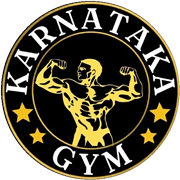
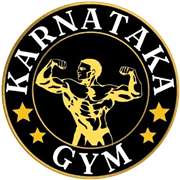
fix: replace navbar square image with high-definition transparent circular gold badge and rounded clipping

diff --git a/src/components/Header.tsx b/src/components/Header.tsx
@@ -76,13 +76,13 @@ export const Header: React.FC<HeaderProps> = ({ onOpenTests }) => {
           className="flex items-center gap-2.5 focus-visible:outline-none"
           aria-label="Karnataka Gym Hubballi Home"
         >
-          <div className="relative w-11 h-11 flex-shrink-0 drop-shadow-[0_2px_8px_rgba(229,169,60,0.35)]">
+          <div className="relative w-11 h-11 rounded-full overflow-hidden flex-shrink-0 drop-shadow-[0_2px_8px_rgba(229,169,60,0.35)]">
             <Image
-              src="/karnataka-gym-logo.png"
+              src="/karnataka-gym-badge.png"
               alt="Karnataka Gym Hubballi"
               width={44}
               height={44}
-              className="object-contain w-full h-full"
+              className="object-contain w-full h-full rounded-full"
               priority
             />
           </div>
@@ -311,13 +311,13 @@ export const Header: React.FC<HeaderProps> = ({ onOpenTests }) => {
           <div className="w-72 bg-[#101420] border-l border-[#232B3E] h-full flex flex-col p-4 shadow-2xl animate-in slide-in-from-right duration-250">
             <div className="flex items-center justify-between pb-3 border-b border-[#232B3E]">
               <div className="flex items-center gap-2">
-                <div className="w-8 h-8 flex-shrink-0">
+                <div className="w-8 h-8 rounded-full overflow-hidden flex-shrink-0">
                   <Image
-                    src="/karnataka-gym-logo.png"
+                    src="/karnataka-gym-badge.png"
                     alt="Karnataka Gym"
                     width={32}
                     height={32}
-                    className="object-contain w-full h-full"
+                    className="object-contain w-full h-full rounded-full"
                   />
                 </div>
                 <span className="text-sm font-bold text-white">Karnataka Gym</span>

diff --git a/src/components/PublicNav.tsx b/src/components/PublicNav.tsx
@@ -34,13 +34,13 @@ export const PublicNav: React.FC<PublicNavProps> = ({ onOpenTests }) => {
           className="flex items-center gap-3 focus-visible:outline-none group flex-shrink-0"
           aria-label="Karnataka Gym Hubballi Home"
         >
-          <div className="relative w-11 h-11 flex-shrink-0 drop-shadow-[0_2px_10px_rgba(229,169,60,0.35)]">
+          <div className="relative w-11 h-11 rounded-full overflow-hidden flex-shrink-0 drop-shadow-[0_2px_10px_rgba(229,169,60,0.35)]">
             <Image
-              src="/karnataka-gym-logo.png"
+              src="/karnataka-gym-badge.png"
               alt="Karnataka Gym Hubballi Logo"
               width={44}
               height={44}
-              className="object-contain w-full h-full"
+              className="object-contain w-full h-full rounded-full"
               priority
             />
           </div>
@@ -146,13 +146,13 @@ export const PublicNav: React.FC<PublicNavProps> = ({ onOpenTests }) => {
             {/* Header */}
             <div className="flex items-center justify-between pb-4 border-b border-[#232B3E]">
               <div className="flex items-center gap-2.5">
-                <div className="w-9 h-9 relative">
+                <div className="w-9 h-9 relative rounded-full overflow-hidden flex-shrink-0">
                   <Image
-                    src="/karnataka-gym-logo.png"
+                    src="/karnataka-gym-badge.png"
                     alt="Karnataka Gym"
                     width={36}
                     height={36}
-                    className="object-contain w-full h-full"
+                    className="object-contain w-full h-full rounded-full"
                   />
                 </div>
                 <div>

diff --git a/src/app/page.tsx b/src/app/page.tsx
@@ -89,13 +89,13 @@ export default function PublicGymWebsite() {
               <div className="flex-1 space-y-6 text-center lg:text-left">
                 {/* Brand Logo & Location Flag */}
                 <div className="flex items-center justify-center lg:justify-start gap-3">
-                  <div className="relative w-14 h-14 flex-shrink-0 drop-shadow-[0_4px_16px_rgba(229,169,60,0.4)]">
+                  <div className="relative w-14 h-14 rounded-full overflow-hidden flex-shrink-0 drop-shadow-[0_4px_16px_rgba(229,169,60,0.4)]">
                     <Image
-                      src="/karnataka-gym-logo.png"
+                      src="/karnataka-gym-badge.png"
                       alt="Karnataka Gym Hubballi Badge"
                       width={56}
                       height={56}
-                      className="object-contain w-full h-full"
+                      className="object-contain w-full h-full rounded-full"
                       priority
                     />
                   </div>

diff --git a/src/app/member/layout.tsx b/src/app/member/layout.tsx
@@ -21,13 +21,13 @@ export default function MemberLayout({ children }: { children: React.ReactNode }
       <div className="min-h-screen flex flex-col items-center justify-center bg-[#0B0E14] text-slate-100 p-4">
         <div className="max-w-md w-full bg-[#121622] border-2 border-[#E5A93C] rounded-3xl p-6 md:p-8 text-center space-y-6 shadow-2xl">
           {/* Brand Logo */}
-          <div className="relative w-16 h-16 mx-auto drop-shadow-[0_4px_16px_rgba(229,169,60,0.35)]">
+          <div className="relative w-16 h-16 rounded-full overflow-hidden mx-auto drop-shadow-[0_4px_16px_rgba(229,169,60,0.35)]">
             <Image
-              src="/karnataka-gym-logo.png"
+              src="/karnataka-gym-badge.png"
               alt="Karnataka Gym Hubballi"
               width={64}
               height={64}
-              className="object-contain w-full h-full"
+              className="object-contain w-full h-full rounded-full"
               priority
             />
           </div>

diff --git a/src/app/owner/layout.tsx b/src/app/owner/layout.tsx
@@ -21,13 +21,13 @@ export default function OwnerLayout({ children }: { children: React.ReactNode })
       <div className="min-h-screen flex flex-col items-center justify-center bg-[#0B0E14] text-slate-100 p-4">
         <div className="max-w-md w-full bg-[#121622] border-2 border-red-600 rounded-3xl p-6 md:p-8 text-center space-y-6 shadow-2xl">
           {/* Brand Logo */}
-          <div className="relative w-16 h-16 mx-auto drop-shadow-[0_4px_16px_rgba(220,38,38,0.35)]">
+          <div className="relative w-16 h-16 rounded-full overflow-hidden mx-auto drop-shadow-[0_4px_16px_rgba(220,38,38,0.35)]">
             <Image
-              src="/karnataka-gym-logo.png"
+              src="/karnataka-gym-badge.png"
               alt="Karnataka Gym Hubballi"
               width={64}
               height={64}
-              className="object-contain w-full h-full"
+              className="object-contain w-full h-full rounded-full"
               priority
             />
           </div>

diff --git a/src/components/PWAInstallBanner.tsx b/src/components/PWAInstallBanner.tsx
@@ -95,13 +95,13 @@ export const PWAInstallBanner: React.FC = () => {
     <div className="fixed bottom-4 left-4 right-4 md:left-auto md:right-4 md:w-96 z-50 animate-in fade-in duration-200">
       <div className="bg-[#121622] border-2 border-[#E5A93C] rounded-2xl p-3 shadow-2xl flex items-center justify-between gap-3">
         {/* App Icon */}
-        <div className="relative w-10 h-10 flex-shrink-0 drop-shadow-[0_2px_8px_rgba(229,169,60,0.35)]">
+        <div className="relative w-10 h-10 rounded-full overflow-hidden flex-shrink-0 drop-shadow-[0_2px_8px_rgba(229,169,60,0.35)]">
           <Image
-            src="/karnataka-gym-logo.png"
+            src="/karnataka-gym-badge.png"
             alt="Karnataka Gym"
             width={40}
             height={40}
-            className="w-full h-full object-contain"
+            className="w-full h-full object-contain rounded-full"
           />
         </div>
 

diff --git a/src/components/Footer.tsx b/src/components/Footer.tsx
@@ -13,13 +13,13 @@ export const Footer: React.FC = () => {
         {/* Brand Bar */}
         <div className="flex flex-col md:flex-row items-center justify-between gap-4 pb-6 border-b border-[#182030]">
           <Link href="/" className="flex items-center gap-3">
-            <div className="w-12 h-12 flex-shrink-0 drop-shadow-[0_2px_8px_rgba(229,169,60,0.35)]">
+            <div className="w-12 h-12 rounded-full overflow-hidden flex-shrink-0 drop-shadow-[0_2px_8px_rgba(229,169,60,0.35)]">
               <Image
-                src="/karnataka-gym-logo.png"
+                src="/karnataka-gym-badge.png"
                 alt="Karnataka Gym Hubballi Logo"
                 width={48}
                 height={48}
-                className="w-full h-full object-contain"
+                className="w-full h-full object-contain rounded-full"
               />
             </div>
             <div>

diff --git a/src/app/not-found.tsx b/src/app/not-found.tsx
@@ -7,13 +7,13 @@ export default function NotFound() {
   return (
     <div className="min-h-screen flex flex-col items-center justify-center bg-[#0B0E14] text-slate-100 p-4">
       <div className="max-w-md w-full bg-[#121622] border-2 border-[#232B3E] rounded-3xl p-6 md:p-8 text-center space-y-6 shadow-2xl">
-        <div className="w-20 h-20 mx-auto flex-shrink-0 drop-shadow-[0_4px_16px_rgba(229,169,60,0.35)]">
+        <div className="w-20 h-20 rounded-full overflow-hidden mx-auto flex-shrink-0 drop-shadow-[0_4px_16px_rgba(229,169,60,0.35)]">
           <Image
-            src="/karnataka-gym-logo.png"
+            src="/karnataka-gym-badge.png"
             alt="Karnataka Gym Hubballi"
             width={80}
             height={80}
-            className="w-full h-full object-contain"
+            className="w-full h-full object-contain rounded-full"
           />
         </div>
 

diff --git a/src/app/login/page.tsx b/src/app/login/page.tsx
@@ -143,13 +143,13 @@ function LoginContent() {
       <main className="flex-1 max-w-4xl w-full mx-auto px-4 py-8 space-y-8">
         {/* Top Branding Card */}
         <div className="text-center space-y-3">
-          <div className="inline-block relative w-16 h-16 flex-shrink-0 drop-shadow-[0_4px_12px_rgba(229,169,60,0.35)]">
+          <div className="inline-block relative w-16 h-16 rounded-full overflow-hidden flex-shrink-0 drop-shadow-[0_4px_12px_rgba(229,169,60,0.35)]">
             <Image
-              src="/karnataka-gym-logo.png"
+              src="/karnataka-gym-badge.png"
               alt="Karnataka Gym Hubballi"
               width={64}
               height={64}
-              className="object-contain w-full h-full"
+              className="object-contain w-full h-full rounded-full"
               priority
             />
           </div>
